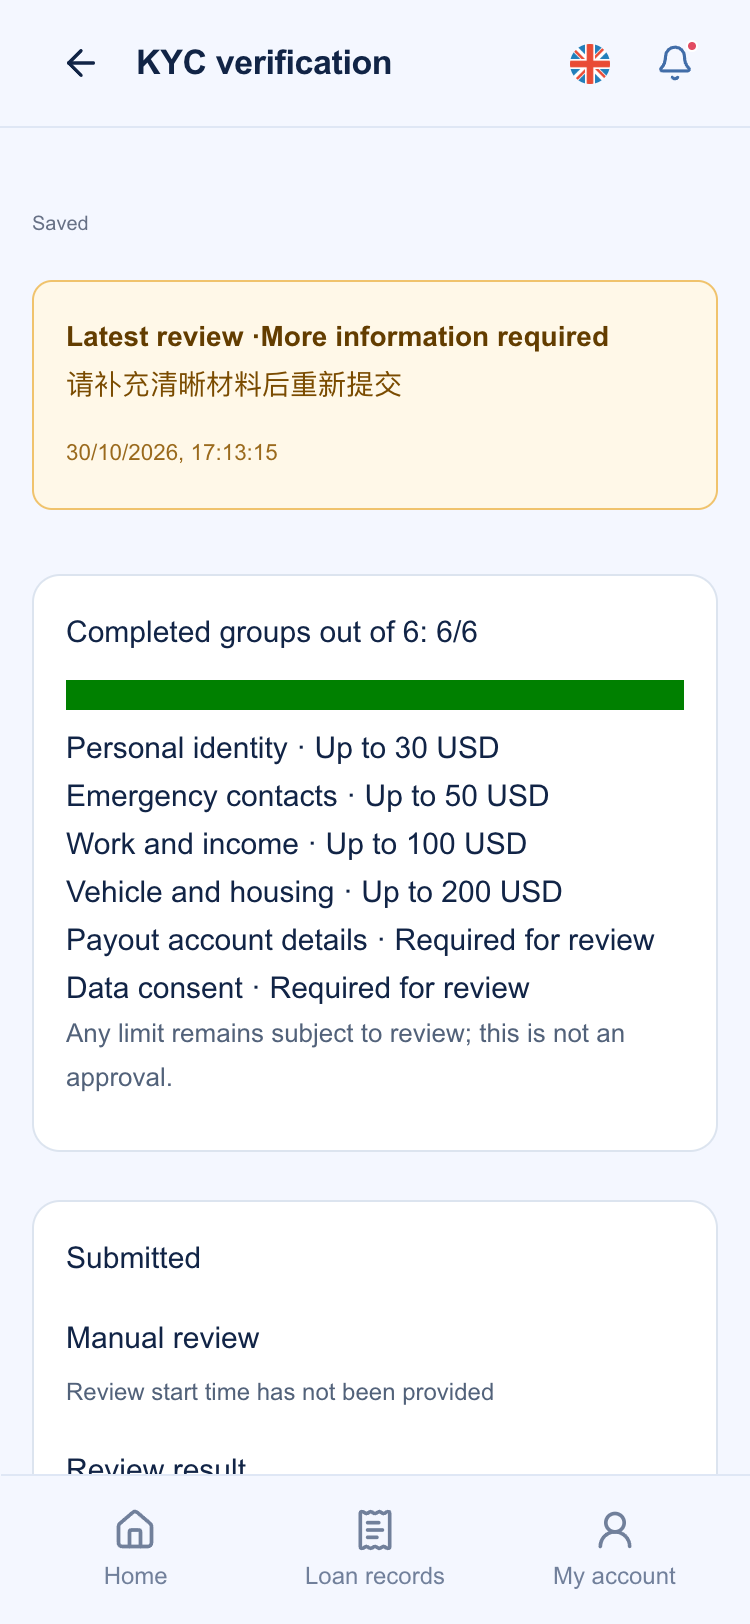
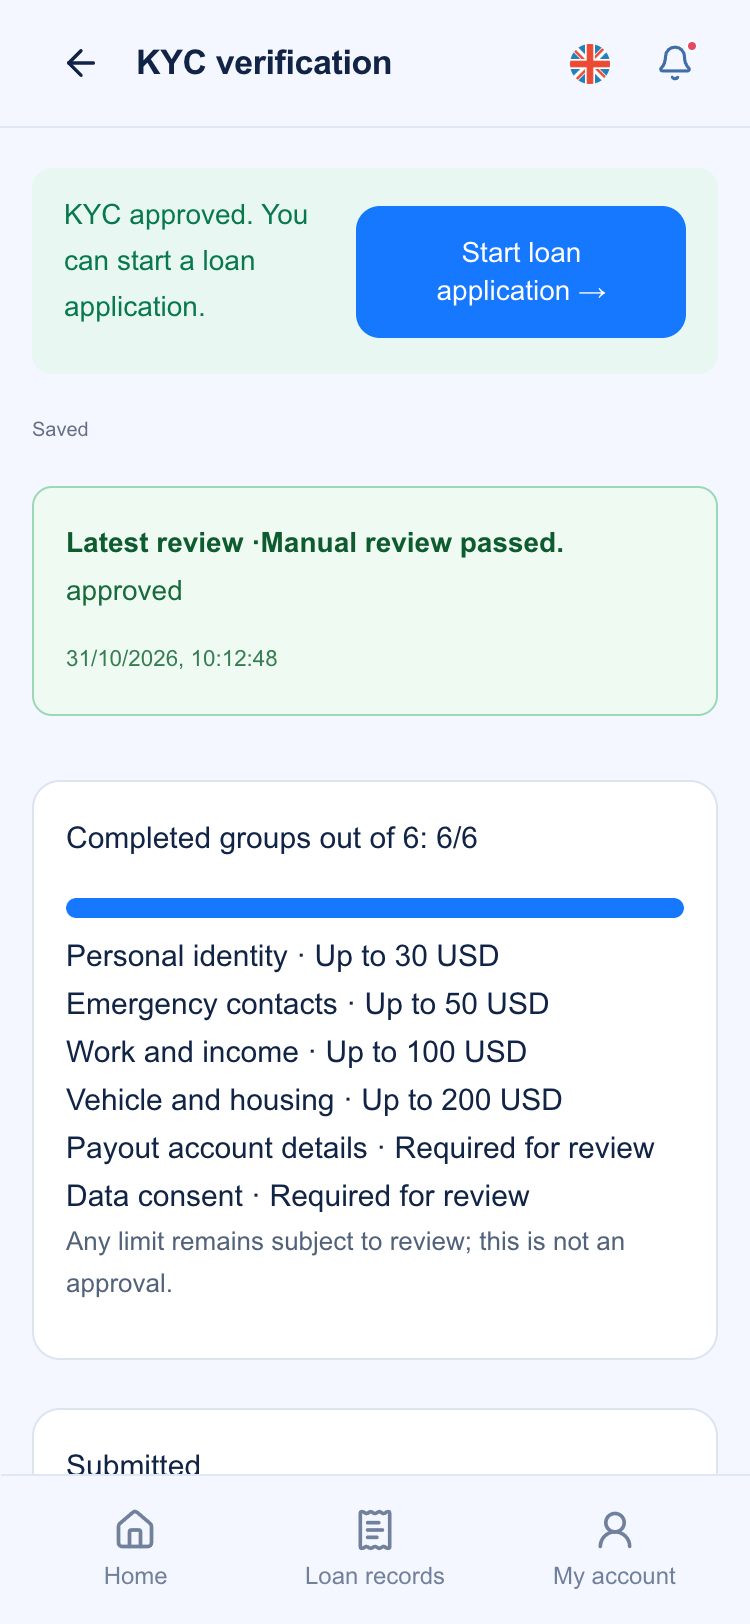
fix: correct KYC progress bar screenshots

diff --git a/components/kyc-customer-overview.css b/components/kyc-customer-overview.css
@@ -1,5 +1,5 @@
 .kyc-customer-progress,.kyc-customer-timeline,.kyc-customer-summary{padding:16px;border:1px solid #dce4ef;border-radius:14px;background:#fff;margin:12px 0;overflow-wrap:anywhere}
-.kyc-customer-progress progress{width:100%;accent-color:#1677ff}.kyc-customer-progress p:last-child{font-size:13px;color:#52627a}
+.kyc-customer-progress progress{width:100%;height:10px;appearance:none;-webkit-appearance:none;accent-color:#1677ff;background:#e6edf7;border:0;border-radius:999px;overflow:hidden}.kyc-customer-progress progress::-webkit-progress-bar{background:#e6edf7;border-radius:999px}.kyc-customer-progress progress::-webkit-progress-value{background:#1677ff;border-radius:999px}.kyc-customer-progress progress::-moz-progress-bar{background:#1677ff;border-radius:999px}.kyc-customer-progress p:last-child{font-size:13px;color:#52627a}
 .kyc-customer-timeline ol{display:flex;gap:16px;list-style-position:inside;padding:0}.kyc-customer-timeline li{flex:1}.kyc-customer-timeline small{display:block;color:#52627a;margin-top:6px}
 .kyc-customer-summary{max-width:800px;margin:12px auto;padding-bottom:110px}.kyc-customer-summary h1{font-size:24px}.kyc-summary-group{margin:16px 0;padding:14px;border:1px solid #dce4ef;border-radius:12px}.kyc-summary-group header{display:flex;justify-content:space-between;align-items:center;gap:10px}.kyc-summary-group h2{font-size:18px}.kyc-summary-group dl{display:grid;grid-template-columns:repeat(2,minmax(0,1fr));gap:12px}.kyc-summary-group dd{margin:4px 0;white-space:pre-wrap}.kyc-summary-group dt{color:#52627a;font-size:13px}
 .kyc-summary-files{display:flex;gap:10px;flex-wrap:wrap}.kyc-summary-files figure{width:100px;margin:0}.kyc-summary-files img{width:100%;height:80px;object-fit:contain}.kyc-customer-summary button{padding:10px 16px;border:1px solid #0759d8;border-radius:8px;color:#0759d8;background:#fff;min-height:44px}.kyc-customer-summary>[data-action=confirm-submit]{width:100%;background:#0759d8;color:white}.kyc-customer-summary button:disabled{opacity:.5}

diff --git a/docs/review/kyc-status-screens-20261030.md b/docs/review/kyc-status-screens-20261030.md
@@ -14,10 +14,17 @@ node /private/tmp/pw-run/pr152shots.mjs
 
 本轮未修改产品以外的生产配置；截图使用虚构 demo 资料。状态卡现按 `approved` / `needs_info` / `rejected` 使用成功、警示、错误色，状态文案走三语本地化，不再直接显示原始枚举值。进度条和窄屏通过按钮统一使用 `#1677FF` 主色；通过链接允许长文案换行。
 
-复拍后 SHA-256：
+第三轮复拍后 SHA-256（本地 demo worker，客户先置为 `needs_info` 拍中文，再由本地审核脚本置为 `approved` 拍高棉语/英文）：
 
 | 文件 | SHA-256 |
 |---|---|
[6 lines of base64/hex data omitted]
+
+## 第三轮门禁证据
+
+- `progress` 的样式根因是原生控件默认外观；仅设置 `accent-color` 不足以覆盖 Chromium 的默认绿色绘制。
+- 已对 `.kyc-customer-progress progress` 增加 `appearance:none` / `-webkit-appearance:none`，并显式设置 `::-webkit-progress-bar`、`::-webkit-progress-value`、`::-moz-progress-bar`；轨道为 `#e6edf7`，进度值为 `#1677ff`。
+- Playwright 实测：`getComputedStyle(progress).appearance === "none"`；截图中进度值已为品牌蓝色。`git grep` 未发现该组件存在其他 `appearance:none` 或 progress pseudo 规则覆盖它。
+- 本轮截图服务启动于分支提交 `ba78a19ff3b34456e58a911a67925e5dbfe942bf`；没有复用旧分支服务。
